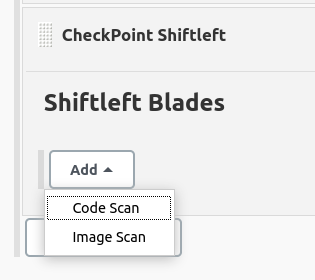
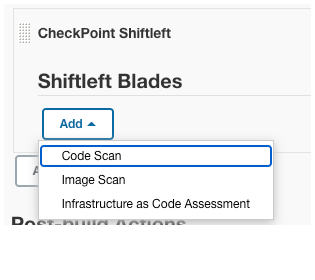
Added documentation for IaC Assessment.

Changed region(s): [[0.0286, 0.0, 1.0, 0.9429], [0.1714, 0.4286, 0.3143, 0.4571]]

diff --git a/README.md b/README.md
@@ -15,7 +15,7 @@ composed by three blades:
 
 * _image-scan_: Scans container images for security risks and vulnerabilities
 * _code-scan_: Source code security and visibility into the risk analysis of the project
-* _iac-assessment_: scans Infrastructure-as-code templates (Terraform),
+* _iac-assessment_: Scans Infrastructure-as-code templates,
   enabling DevOps and security teams to identify insecure configurations
 
 ## Getting started
@@ -106,6 +106,11 @@ vulnerabilities and threats. It includes all the checks previously described in
 the _code-scan_ blade, and adds on top of that vulnerability scanning for OS
 level packages, like `apk`, `dpkg` or `rpm`
 
+## Infrastructure as Code Assessment
+
+Shiftleft _iac-assessment_ blade scans Infrastructure-as-code templates (Terraform, AWS CloudFormation),
+enabling DevOps and security teams to identify insecure configurations
+
 ## Shiftleft Results
 
 Once CheckPoint Shiftleft build steps are executed in the job, the plugin will
@@ -114,6 +119,9 @@ artifacts. When you navigate into the build view, links in the left navigation
 pane as well as in the job results section will take you to the report details:
 
 ![Job Results](doc/img/job_results.png)
+
+![Job Results](doc/img/job_results_iac.png)
+
 
 
 ## Contributing
